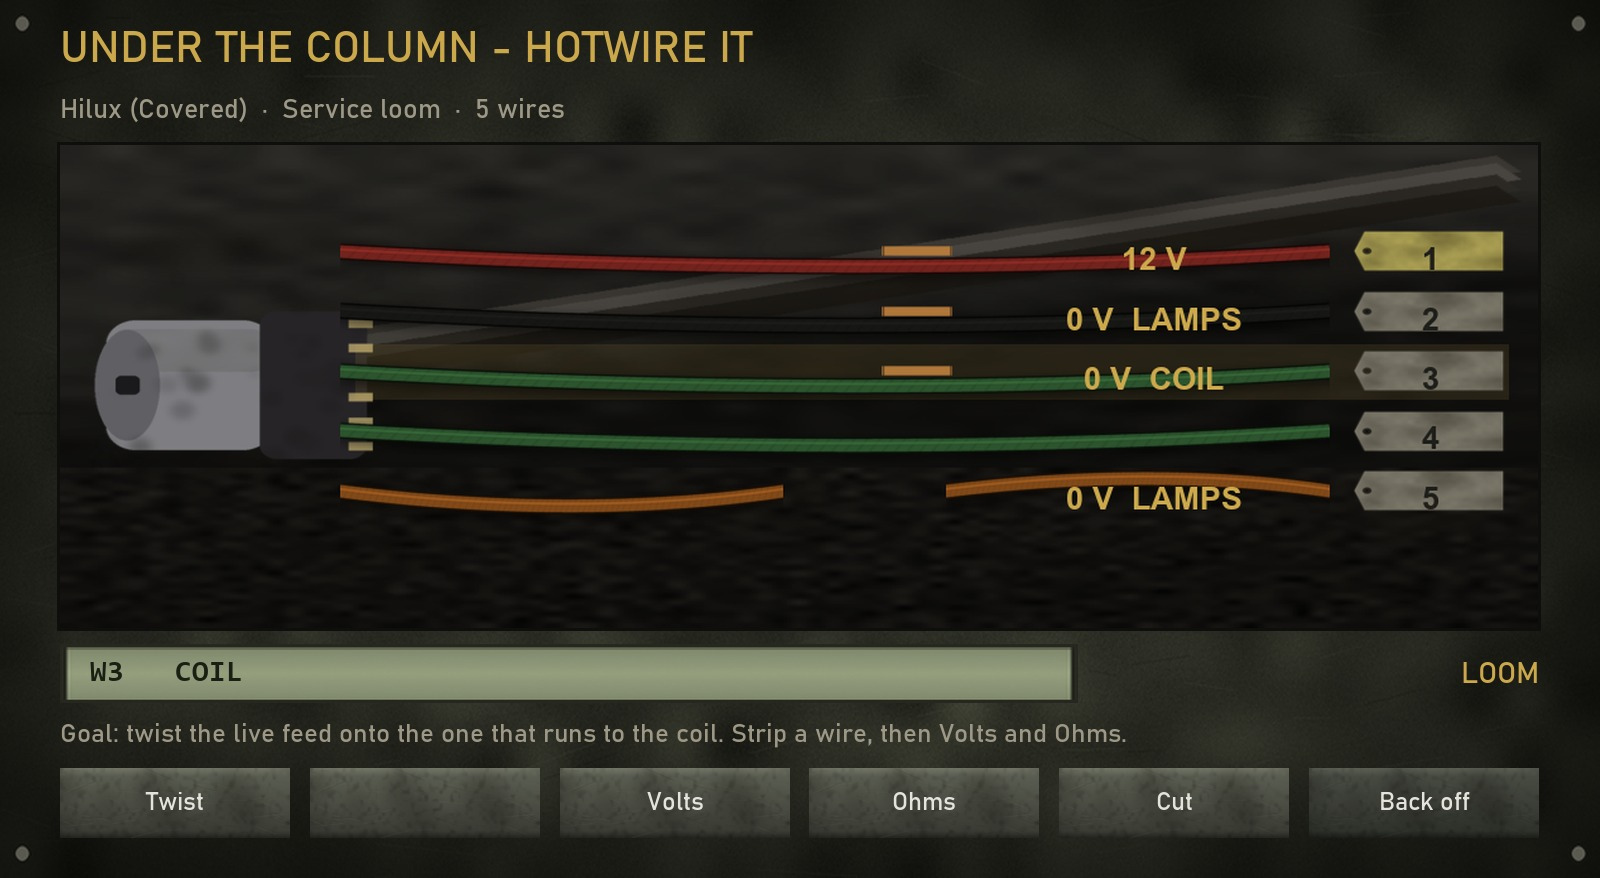
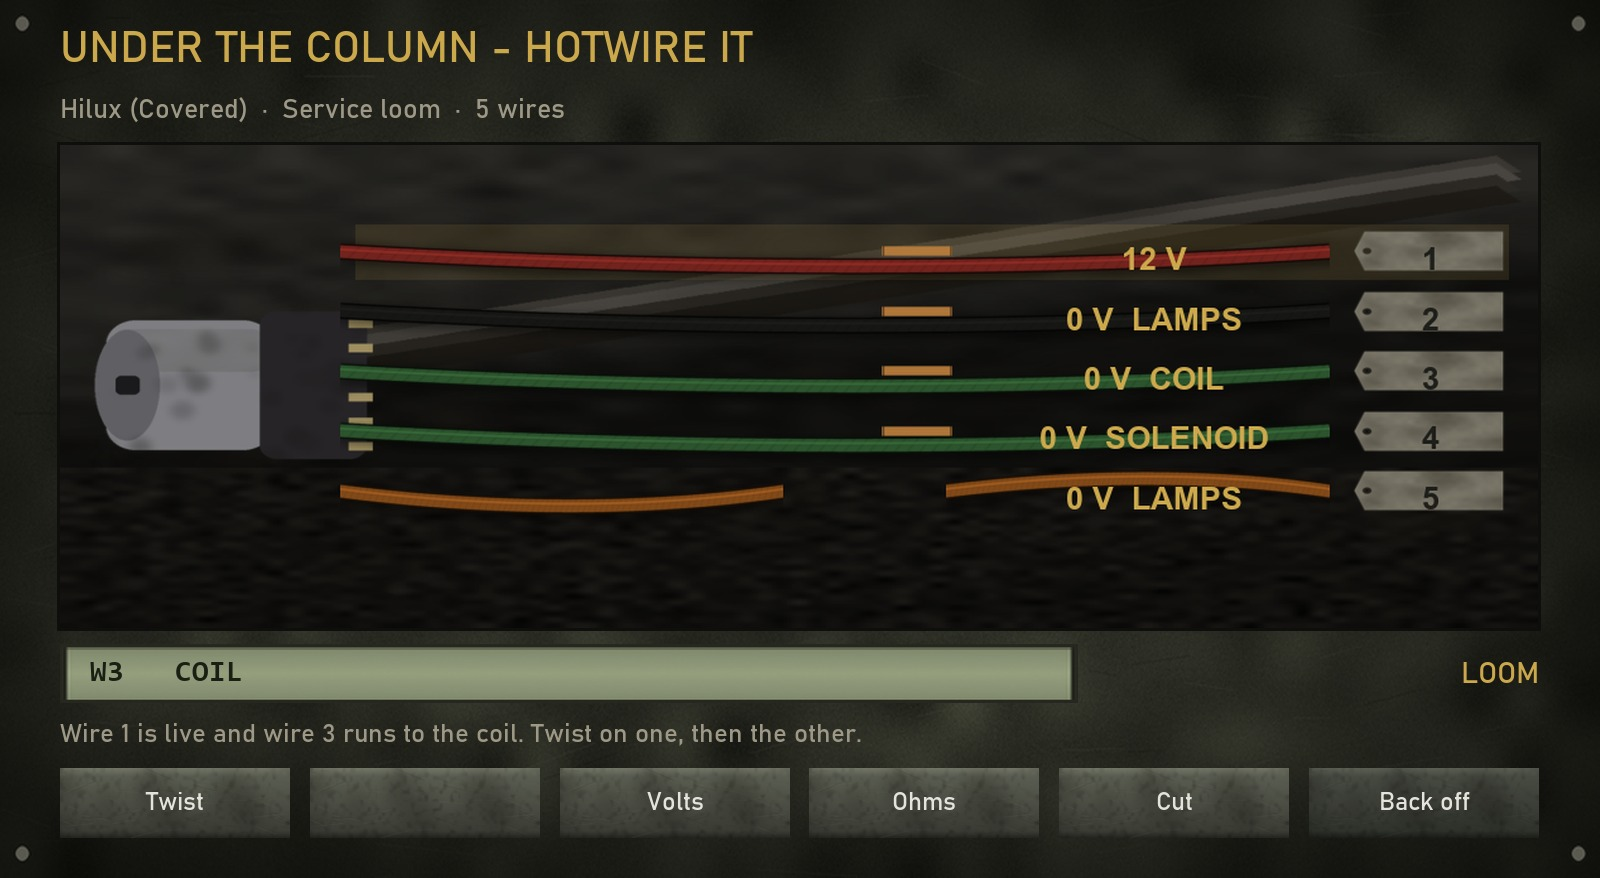
Show every stage of the hotwire job
Six pictures instead of two: the shroud with its screws in, the loom uncovered, a wire being stripped while two are read, every wire read, the pair twisted with the steering lock going, and the engine catching.

diff --git a/tools/preview_card.py b/tools/preview_card.py
@@ -105,48 +105,122 @@ def card(inner, title, subtitle, readout, stage, status, plates):
     return img.convert("RGB")
 
 
-def hotwire_card():
-    """The loom part way through a job: the battery feed found and clipped, the
-    coil feed found and selected, the alarm feed cut, one still sheathed."""
-    inner = hw.loom(
-        [(0, True, False, "12 V"), (8, True, False, "0 V  LAMPS"), (3, True, False, "0 V  COIL"),
-         (3, False, False, ""), (6, True, True, "0 V  LAMPS")],
-        sel=2, clip=0, joined=(),
+# One job, told in order. The same five wires throughout, so the set reads as one
+# vehicle being worked on rather than five unrelated pictures.
+#   1 red     battery feed
+#   2 black   lamps
+#   3 green   coil, the ignition feed
+#   4 green   solenoid, the starter feed
+#   5 orange  lamps, and on a service loom this is the alarm
+WIRES = [0, 8, 3, 3, 6]
+
+TITLE = "UNDER THE COLUMN - HOTWIRE IT"
+SUBTITLE = "Hilux (Covered)  ·  Service loom  ·  5 wires"
+
+LOOM_PLATES = ["Strip", "", "Volts", "Ohms", "Cut", "Back off"]
+
+
+def wires(states):
+    """states: [(stripped, cut, note), ...] in wire order."""
+    return [(WIRES[i], st, cut, note) for i, (st, cut, note) in enumerate(states)]
+
+
+def shroud_card():
+    """Nothing is reachable until the cover is off."""
+    return card(
+        hw.shroud(4), TITLE, SUBTITLE, "", "SHROUD",
+        "Click each screw to take it out, then the shroud comes off. 4 left.",
+        ["", "", "", "", "", "Back off"],
     )
 
+
+def loom_card():
+    """The cover is off: the barrel, the loom, and nothing known about any of it."""
+    inner = hw.loom(wires([(False, False, "")] * 5), sel=0, clip=-1, joined=())
     return card(
-        inner,
-        "UNDER THE COLUMN - HOTWIRE IT",
-        "Hilux (Covered)  ·  Service loom  ·  5 wires",
-        "W3   COIL",
-        "LOOM",
+        inner, TITLE, SUBTITLE, "", "LOOM",
         "Goal: twist the live feed onto the one that runs to the coil. Strip a wire, then Volts and Ohms.",
+        LOOM_PLATES,
+    )
+
+
+def strip_card():
+    """Two wires read, a third selected with its sheath still on."""
+    inner = hw.loom(wires([
+        (True, False, "12 V"),
+        (True, False, "0 V  LAMPS"),
+        (False, False, ""),
+        (False, False, ""),
+        (False, False, ""),
+    ]), sel=2, clip=-1, joined=())
+    return card(
+        inner, TITLE, SUBTITLE, "W2   LAMPS", "LOOM",
+        "Wire 3 is still sheathed. Strip it, then put the meter across it.",
+        LOOM_PLATES,
+    )
+
+
+def tested_card():
+    """Every wire read. The battery feed and the coil feed are the pair."""
+    inner = hw.loom(wires([
+        (True, False, "12 V"),
+        (True, False, "0 V  LAMPS"),
+        (True, False, "0 V  COIL"),
+        (True, False, "0 V  SOLENOID"),
+        (True, True, "0 V  LAMPS"),
+    ]), sel=0, clip=-1, joined=())
+    return card(
+        inner, TITLE, SUBTITLE, "W3   COIL", "LOOM",
+        "Wire 1 is live and wire 3 runs to the coil. Twist on one, then the other.",
         ["Twist", "", "Volts", "Ohms", "Cut", "Back off"],
     )
 
 
-def crank_card():
-    """The pair twisted together and the engine catching."""
-    inner = hw.loom(
-        [(0, True, False, "12 V"), (8, True, False, "0 V  LAMPS"), (3, True, False, "0 V  COIL"),
-         (3, True, False, "0 V  SOLENOID"), (6, True, True, "0 V  LAMPS")],
-        sel=3, clip=-1, joined=(0, 2),
+def steering_card():
+    """The pair is twisted, the dash is live, the wheel is not free yet."""
+    inner = hw.loom(wires([
+        (True, False, "12 V"),
+        (True, False, "0 V  LAMPS"),
+        (True, False, "0 V  COIL"),
+        (True, False, "0 V  SOLENOID"),
+        (True, True, "0 V  LAMPS"),
+    ]), sel=2, clip=-1, joined=(0, 2))
+    return card(
+        inner, TITLE, SUBTITLE, "STEERING LOCK   64%", "STEERING",
+        "Hold Space to force the steering lock.",
+        ["", "Force", "", "", "", "Back off"],
     )
 
+
+def crank_card():
+    """The engine catching, which is the moment to let go."""
+    inner = hw.loom(wires([
+        (True, False, "12 V"),
+        (True, False, "0 V  LAMPS"),
+        (True, False, "0 V  COIL"),
+        (True, False, "0 V  SOLENOID"),
+        (True, True, "0 V  LAMPS"),
+    ]), sel=3, clip=-1, joined=(0, 2))
     return card(
-        inner,
-        "UNDER THE COLUMN - HOTWIRE IT",
-        "Hilux (Covered)  ·  Service loom  ·  5 wires",
-        "IT CATCHES - LET GO",
-        "IGNITION",
+        inner, TITLE, SUBTITLE, "IT CATCHES - LET GO", "IGNITION",
         "The dash is live. Hold Space to crank, and let go the moment the readout says it catches.",
         ["", "Crank", "", "", "", "Back off"],
     )
 
 
+CARDS = [
+    ("hotwire-shroud.jpg", shroud_card),
+    ("hotwire-loom.jpg", loom_card),
+    ("hotwire-strip.jpg", strip_card),
+    ("hotwire.jpg", tested_card),
+    ("hotwire-steering.jpg", steering_card),
+    ("hotwire-crank.jpg", crank_card),
+]
+
+
 if __name__ == "__main__":
     os.makedirs(OUT, exist_ok=True)
-    for name, fnc in (("hotwire.jpg", hotwire_card), ("hotwire-crank.jpg", crank_card)):
+    for name, fnc in CARDS:
         path = os.path.join(OUT, name)
         fnc().save(path, quality=92)
         print("wrote", path)

diff --git a/docs/vehicles.md b/docs/vehicles.md
@@ -57,13 +57,14 @@ In the driver's seat, open the ACE self-interaction menu and choose **Hotwire**.
 You need something to work with: any lock pick kit, a paperclip or a toolkit by
 default, and the setting can ask for a toolkit only, or for nothing at all.
 
-<img src="images/hotwire.jpg" alt="The hotwire board: the ignition barrel, its loom, and each wire's meter readings" width="820">
-
 The board runs in four stages.
 
 **1. The shroud.** The plastic cover over the column is held on by three to five
 screws. Click each one to take it out. With the last one gone the cover comes
 off and the ignition barrel is in front of you.
+
+<img src="images/hotwire-shroud.jpg" alt="The column shroud with its screws still in" width="820">
+<img src="images/hotwire-loom.jpg" alt="The shroud off, showing the ignition barrel and its loom" width="820">
 
 **2. The loom.** Wires run from the barrel's connector out to the right, numbered
 by their tags. Pick one with the left and right keys or by clicking it, then:
@@ -76,14 +77,22 @@ by their tags. Pick one with the left and right keys or by clicking it, then:
 | **Ohms** | Where does it go? The coil, the solenoid, the lamps, or nowhere. |
 | **Cut** | Cuts the selected wire. |
 
+Each wire carries what the meter said about it, so the board keeps the notes
+rather than you.
+
+<img src="images/hotwire-strip.jpg" alt="Two wires stripped and read, a third still sheathed" width="820">
+<img src="images/hotwire.jpg" alt="Every wire read: the battery feed and the coil feed found" width="820">
+
 **3. The steering lock.** Once the dash is live, hold the lift key to force the
 steering lock until it shears. Let go and it takes back what it gained.
+
+<img src="images/hotwire-steering.jpg" alt="The pair twisted together and the steering lock being forced" width="820">
 
 **4. The ignition.** Hold the lift key to crank. The engine turns over, and the
 moment the readout says it catches, let go. Keep holding and the starter grinds
 against a running engine, which costs you a cool-down.
 
-<img src="images/hotwire-crank.jpg" alt="The battery feed twisted onto the ignition feed, and the engine catching" width="820">
+<img src="images/hotwire-crank.jpg" alt="The engine catching, which is the moment to let go" width="820">
 
 ## The loom
 

diff --git a/README.md b/README.md
@@ -108,9 +108,13 @@ can be rebound.
 
 **Vehicles**: the hotwire board, and the engine catching
 
-| Reading the loom | Cranking it |
+| 1. The shroud | 2. The loom |
 | --- | --- |
-| <img src="docs/images/hotwire.jpg" alt="The hotwire board with the loom and its meter readings" width="400"> | <img src="docs/images/hotwire-crank.jpg" alt="The battery feed twisted onto the ignition feed and the engine catching" width="400"> |
+| <img src="docs/images/hotwire-shroud.jpg" alt="The column shroud with its screws still in" width="400"> | <img src="docs/images/hotwire-loom.jpg" alt="The shroud off, showing the ignition barrel and its loom" width="400"> |
+
+| 3. Stripped and read | 4. Twisted, and it catches |
+| --- | --- |
+| <img src="docs/images/hotwire.jpg" alt="Every wire read: the battery feed and the coil feed found" width="400"> | <img src="docs/images/hotwire-crank.jpg" alt="The engine catching, which is the moment to let go" width="400"> |
 
 **Modules**, in Eden and Zeus
 
